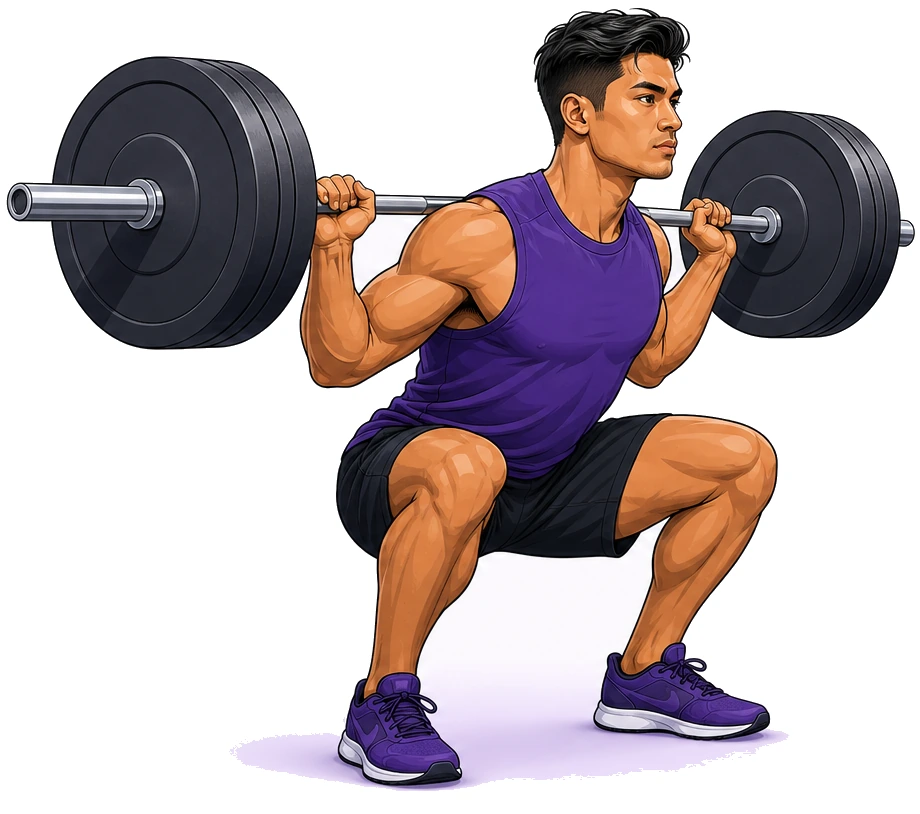
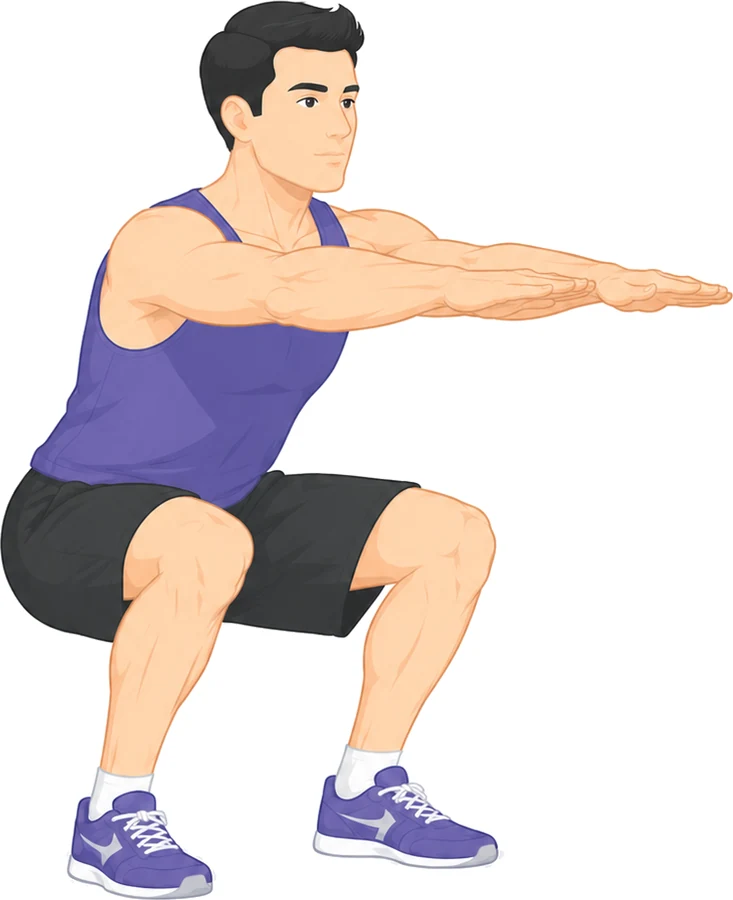
feat(login): the library's own squat figure, on a page that fits a laptop
Two things, and the first forces the second.

The brand stage now shows the bodyweight squat from the movement library, so
the athlete a visitor meets on the way in is the one they meet again on the
/movements card. Not by pointing `src` at movements/squat.png: that file is a
1254x1254 opaque square, ~35% padding (the feet would float off the floor
rings), on a (252,251,251) plate that `mix-blend-multiply` renders as a faint
rectangle, at 1.2 MB. scripts/prep_login_hero.py trims it to the figure, floods
the plate to pure white and writes 733x900 WebP -- 31 kB, smaller than the
barbell hero it replaces. The recipe is committed because the binary is.

The new art is portrait where the old one was landscape, so the art box goes
height-constrained and its four offsets are re-derived.

The page itself was ~880px tall against a 716px FIXED stage floor, so every
laptop had to scroll to reach the sign-in button. The stage floor drops to
520px and its callouts move to percentages (at 716px they land exactly where
the design study measured them); the panel's rhythm tightens; and a
short-viewport tier in index.css takes out ~95px more below 780px of viewport.
Verified with the footer fully visible -- the last element, so no scroll -- at
1366x640, 1536x730, 1920x950 and 1152x700, in both locales. Floor is ~640px of
viewport; 1280x610 still overflows, as does the transient error banner at the
low end.

The stage now starts at `xl`, not `lg`. Its cards are a fixed 214px wide and
[…]

diff --git a/frontend/src/pages/Login.tsx b/frontend/src/pages/Login.tsx
@@ -71,6 +71,12 @@ function StageCard({
 // holding an illustrated brand stage on the left and the form on the right. The stage is desktop
 // only — its callouts are absolutely positioned in the stage's own coordinate space, which has no
 // sensible phone equivalent, and the LIFF path lands here on small screens.
+//
+// "Desktop" here means `xl` (1280px), not `lg`. The callout cards are a fixed 214px wide at a fixed
+// type size, and the split gives the form column a 430px floor: below 1280 the stage is squeezed
+// under ~600px and the cards start sitting on the hero copy and on the athlete's head. The form on
+// its own is the better answer at those widths, and it is the same breakpoint at which the shell
+// becomes the inset rounded card — one boundary, not two.
 export default function Login() {
   const { t } = useI18n();
   const navigate = useNavigate();
@@ -159,34 +165,47 @@ export default function Login() {
     }
   }
 
+  // Control heights are sized so the whole page clears a laptop viewport (see the shell comment
+  // below); 48px is still comfortably above the 44px touch-target floor.
   const fieldWrap =
-    "flex h-[52px] items-center rounded-[14px] border border-border bg-white/70 transition-colors focus-within:border-primary focus-within:ring-[3px] focus-within:ring-primary/10";
+    "lgn-field flex h-12 items-center rounded-[14px] border border-border bg-white/70 transition-colors focus-within:border-primary focus-within:ring-[3px] focus-within:ring-primary/10";
   const fieldInput =
     "h-full w-full min-w-0 bg-transparent px-3.5 text-[15px] text-content outline-none placeholder:text-faint";
   const socialButton =
-    "flex h-[52px] w-full items-center justify-center gap-3 rounded-[13px] border border-border bg-white text-[15px] font-semibold text-content shadow-[0_5px_11px_rgba(35,46,97,0.035)] transition-colors hover:border-primary/40 hover:bg-primary/[0.03] active:scale-[0.995] disabled:opacity-60";
+    "lgn-social flex h-12 w-full items-center justify-center gap-3 rounded-[13px] border border-border bg-white text-[15px] font-semibold text-content shadow-[0_5px_11px_rgba(35,46,97,0.035)] transition-colors hover:border-primary/40 hover:bg-primary/[0.03] active:scale-[0.995] disabled:opacity-60";
 
   return (
-    <div className="min-h-[100dvh] bg-background xl:p-4">
-      {/* Below `lg` the brand stage is gone, so the shell keeps the lavender canvas and the form
-          reads as a card on it; from `lg` up the shell itself is the white surface the stage
-          paints on. */}
-      <div className="relative grid min-h-[100dvh] grid-rows-[1fr_auto] overflow-hidden bg-background lg:bg-white xl:min-h-[calc(100dvh-2rem)] xl:rounded-[2rem] xl:border xl:border-white xl:shadow-card">
+    <div className="min-h-[100dvh] bg-background xl:p-3">
+      {/* Below `xl` the brand stage is gone, so the shell keeps the lavender canvas and the form
+          reads as a card on it; from `xl` up the shell itself is the white surface the stage
+          paints on.
+
+          Everything from here down is sized to fit a LAPTOP viewport without scrolling — a sign-in
+          button below the fold is a broken sign-in page. The budget that has to hold is
+          `pt` + max(stage, form panel) + footer; the form panel is the taller of the two columns,
+          so its rhythm (and not the stage) is what the trims below are protecting. */}
+      <div className="relative grid min-h-[100dvh] grid-rows-[1fr_auto] overflow-hidden bg-background xl:bg-white xl:min-h-[calc(100dvh-1.5rem)] xl:rounded-[2rem] xl:border xl:border-white xl:shadow-card">
         <Link
           to="/"
           aria-label={t("auth.brandHome")}
-          className="absolute left-6 top-6 z-20 inline-flex items-center gap-3.5 lg:left-11 lg:top-9"
+          className="absolute left-6 top-5 z-20 inline-flex items-center gap-3 xl:left-10 xl:top-6"
         >
-          <img src="/icon.svg" alt="" width={52} height={52} className="h-[52px] w-[52px] rounded-[12px] shadow-accent" />
-          <span className="font-display text-2xl font-extrabold tracking-tight text-content">X-Coach</span>
+          <img src="/icon.svg" alt="" width={44} height={44} className="h-11 w-11 rounded-[11px] shadow-accent" />
+          <span className="font-display text-[22px] font-extrabold tracking-tight text-content">X-Coach</span>
         </Link>
 
-        {/* 61/39 split, matching the design study the percentage offsets below were measured in. */}
-        <div className="grid pt-28 lg:grid-cols-[minmax(0,1.564fr)_minmax(430px,1fr)] lg:pt-[4.8rem]">
+        {/* 61/39 split, matching the design study the percentage offsets below were measured in.
+            The top padding only has to clear the brand link (top-6 + 44px logo); the form panel
+            centres in whatever height is left. */}
+        <div className="lgn-top grid pt-24 xl:grid-cols-[minmax(0,1.564fr)_minmax(430px,1fr)] xl:pt-[3.75rem]">
           {/* ── Brand stage ─────────────────────────────────────────────── */}
+          {/* The floor was a fixed 716px in the design study, which forced the page past the fold on
+              every laptop. Everything inside it is positioned in %, so the composition scales with
+              the row instead — the floor below is only the point where the fixed-width, fixed-font
+              callout cards start to crowd each other. */}
           <section
             aria-labelledby="lgn-hero-title"
-            className="lgn-stage relative isolate hidden min-h-[716px] overflow-hidden lg:block"
+            className="lgn-stage relative isolate hidden min-h-[520px] overflow-hidden xl:block"
           >
             {/* -z-[1], not lower: the stage's floor gradient sits at -3/-4, and the mock shows the
                 dot fields ON the violet corner rather than buried under it. */}
@@ -195,13 +214,13 @@ export default function Login() {
             <span className="lgn-orb absolute right-[19%] top-[48%] h-2 w-2 rounded-full border-2 border-[#ad92ff] opacity-70" aria-hidden="true" />
             <span className="lgn-orb lgn-orb-b absolute right-[4.5%] top-[56%] h-[9px] w-[9px] rounded-full border-2 border-[#ad92ff] opacity-70" aria-hidden="true" />
 
-            <div className="lgn-copy absolute left-[13%] top-[72px] z-[6]">
+            <div className="lgn-copy absolute left-[13%] top-[7%] z-[6]">
               {/* h2, not h1: the stage is desktop-only, so making it the document's h1 would leave
                   phones with no h1 at all. The page's subject is the form, and its title keeps the
                   h1 it has always had. */}
               <h2
                 id="lgn-hero-title"
-                className="font-display text-[clamp(38px,3vw,49px)] font-extrabold leading-[1.13] tracking-[-0.03em] text-content"
+                className="font-display text-[clamp(34px,2.7vw,45px)] font-extrabold leading-[1.13] tracking-[-0.03em] text-content"
               >
                 {t("auth.heroLine1")}
                 <br />
@@ -214,12 +233,20 @@ export default function Login() {
               </p>
             </div>
 
+            {/* The movement library's own squat figure, so the athlete a visitor meets on the way in
+                is the one they meet again on the /movements card. Derived from
+                `public/movements/squat.png` by `scripts/prep_login_hero.py`: trimmed to the figure
+                and flood-filled to a PURE white plate, which is what lets `mix-blend-multiply` drop
+                it onto the floor gradient with no cut-out halo and no visible plate rectangle.
+                Portrait (0.81), unlike the landscape barbell art this replaced — the box below is
+                height-constrained, so `h-` sets the figure's size and `w-` only has to be wide
+                enough not to clip the outstretched arms. */}
             <img
               src="/assets/squat-hero.webp"
-              width={920}
-              height={814}
+              width={733}
+              height={900}
               alt=""
-              className="lgn-art absolute bottom-[2.7%] left-[29.5%] z-[2] h-[61%] w-[56%] object-contain mix-blend-multiply"
+              className="lgn-art absolute bottom-[6%] left-[30%] z-[2] h-[58%] w-[42%] object-contain mix-blend-multiply"
             />
             <div
               aria-hidden="true"
@@ -230,8 +257,11 @@ export default function Login() {
               <i />
             </div>
 
+            {/* Card offsets are percentages of the stage, not the study's pixels, for the same
+                reason the floor is: at 716px tall they land exactly where they were measured, and
+                below that the four of them close in evenly instead of colliding. */}
             <StageCard
-              className="left-[10%] top-[287px]"
+              className="lgn-card-a left-[10%] top-[34%]"
               Glyph={Sparkle}
               title={t("auth.card1Title")}
               body={t("auth.card1Body")}
@@ -245,7 +275,7 @@ export default function Login() {
             />
 
             {/* Form score — the one card that shows a verdict rather than a capability. */}
-            <div className="lgn-card lgn-card-b absolute right-[7%] top-[190px] z-[7] w-[184px] rounded-2xl border border-white/95 bg-white/[0.88] p-4 shadow-card backdrop-blur-[10px]">
+            <div className="lgn-card lgn-card-b absolute right-[7%] top-[24%] z-[7] w-[184px] rounded-2xl border border-white/95 bg-white/[0.88] p-4 shadow-card backdrop-blur-[10px]">
               <strong className="block text-xs font-bold leading-snug text-content">{t("auth.scoreTitle")}</strong>
               <div className="mt-3 flex items-center gap-3.5">
                 <div className="lgn-ring relative grid h-[64px] w-[64px] shrink-0 place-items-center rounded-full">
@@ -259,7 +289,7 @@ export default function Login() {
             </div>
 
             <StageCard
-              className="lgn-card-c bottom-[148px] left-[14%]"
+              className="lgn-card-c bottom-[18%] left-[14%]"
               Glyph={Barbell}
               title={t("auth.card2Title")}
               body={t("auth.card2Body")}
@@ -271,7 +301,7 @@ export default function Login() {
             />
 
             <StageCard
-              className="lgn-card-d bottom-[150px] right-[6%]"
+              className="lgn-card-d bottom-[18.5%] right-[6%]"
               Glyph={TrendUp}
               title={t("auth.card3Title")}
               body={t("auth.card3Body")}
@@ -288,23 +318,23 @@ export default function Login() {
           </section>
 
           {/* ── Form panel ──────────────────────────────────────────────── */}
-          <section className="flex items-center justify-center px-5 pb-10 sm:px-8 lg:px-6">
-            <div className="lgn-panel w-full max-w-[554px] rounded-[28px] border border-border bg-white px-6 py-9 shadow-card sm:px-10">
-              <h1 className="font-display text-[30px] font-extrabold tracking-[-0.03em] text-content">
+          <section className="lgn-formcol flex items-center justify-center px-5 pb-5 sm:px-8 xl:px-6">
+            <div className="lgn-panel w-full max-w-[554px] rounded-[28px] border border-border bg-white px-6 py-5 shadow-card sm:px-9">
+              <h1 className="lgn-title font-display text-[27px] font-extrabold tracking-[-0.03em] text-content">
                 {t(isSignup ? "auth.signUpTitle" : "auth.signInTitle")}
               </h1>
-              <p className="mt-2 text-base text-muted">
+              <p className="mt-1.5 text-[15px] text-muted">
                 {t(isSignup ? "auth.signUpSub" : "auth.signInSub")}
               </p>
 
               {!configured && (
-                <div className="mt-6 flex items-start gap-2.5 rounded-xl border border-border bg-background p-3.5 text-sm text-muted">
+                <div className="mt-5 flex items-start gap-2.5 rounded-xl border border-border bg-background p-3.5 text-sm text-muted">
                   <Info size={18} className="shrink-0 text-faint" />
                   <span>{t("auth.notConfigured")}</span>
                 </div>
               )}
 
-              <form onSubmit={submit} className="mt-7">
+              <form onSubmit={submit} className="lgn-form mt-5">
                 <label htmlFor="email" className="mb-2 block text-sm font-bold text-content">
                   {t("auth.email")}
                 </label>
@@ -322,7 +352,7 @@ export default function Login() {
                   />
                 </div>
 
-                <label htmlFor="password" className="mb-2 mt-5 block text-sm font-bold text-content">
+                <label htmlFor="password" className="mb-2 mt-4 block text-sm font-bold text-content">
                   {t("auth.password")}
                 </label>
                 <div className={fieldWrap}>
@@ -341,7 +371,7 @@ export default function Login() {
                     type="button"
                     onClick={() => setShowPassword((v) => !v)}
                     aria-label={t(showPassword ? "auth.hidePassword" : "auth.showPassword")}
-                    className="grid h-full w-12 shrink-0 place-items-center rounded-r-[14px] text-faint transition-colors hover:text-muted"
+                    className="grid h-full w-11 shrink-0 place-items-center rounded-r-[14px] text-faint transition-colors hover:text-muted"
                   >
                     {showPassword ? <EyeSlash size={21} /> : <Eye size={21} />}
                   </button>
@@ -367,14 +397,14 @@ export default function Login() {
                 <button
                   type="submit"
                   disabled={busy || !configured}
-                  className="mt-7 flex h-[54px] w-full items-center justify-center gap-3 rounded-[13px] bg-gradient-to-r from-[#7447ff] to-[#6d3cf5] text-base font-bold text-primary-content shadow-accent transition-transform hover:-translate-y-0.5 active:translate-y-0 disabled:translate-y-0 disabled:opacity-60"
+                  className="lgn-submit mt-6 flex h-[52px] w-full items-center justify-center gap-3 rounded-[13px] bg-gradient-to-r from-[#7447ff] to-[#6d3cf5] text-base font-bold text-primary-content shadow-accent transition-transform hover:-translate-y-0.5 active:translate-y-0 disabled:translate-y-0 disabled:opacity-60"
                 >
                   {busy ? <CircleNotch size={20} className="animate-spin" /> : <SignIn size={20} />}
                   {t(isSignup ? "auth.signUpBtn" : "auth.signInBtn")}
                 </button>
               </form>
 
-              <div className="my-6 flex items-center gap-4 text-[13px] text-muted">
+              <div className="lgn-divider my-4 flex items-center gap-4 text-[13px] text-muted">
                 <span className="h-px flex-1 bg-border" />
                 {t("auth.orContinue")}
                 <span className="h-px flex-1 bg-border" />
@@ -385,12 +415,12 @@ export default function Login() {
                 {t("auth.google")}
               </button>
 
-              <button type="button" onClick={line} disabled={busy || !configured} className={`mt-3 ${socialButton}`}>
+              <button type="button" onClick={line} disabled={busy || !configured} className={`mt-2.5 ${socialButton}`}>
                 <LineLogo />
                 {t("auth.lineBtn")}
               </button>
 
-              <p className="mt-7 text-center text-[15px] text-muted">
+              <p className="lgn-alt mt-5 text-center text-[15px] text-muted">
                 {t(isSignup ? "auth.haveAccount" : "auth.noAccount")}{" "}
                 <button
                   type="button"
@@ -405,7 +435,7 @@ export default function Login() {
                 </button>
               </p>
 
-              <p className="mt-3 text-center">
+              <p className="mt-2 text-center">
                 <Link to="/app" className="text-sm text-faint transition-colors hover:text-muted">
                   {t("auth.demoLink")}
                 </Link>
@@ -414,7 +444,7 @@ export default function Login() {
           </section>
         </div>
 
-        <footer className="z-[15] flex items-center justify-center px-6 py-5 text-xs text-muted">
+        <footer className="lgn-foot z-[15] flex items-center justify-center px-6 py-2.5 text-xs text-muted">
           {t("auth.footer", { year: String(new Date().getFullYear()) })}
         </footer>
       </div>

diff --git a/frontend/src/index.css b/frontend/src/index.css
@@ -459,3 +459,42 @@ body {
 @media (prefers-reduced-motion: reduce) {
   .lgn-copy, .lgn-art, .lgn-panel, .lgn-card, .lgn-orb { animation: none !important; }
 }
+
+/* SHORT-VIEWPORT TIER. A login page that has to be scrolled to reach its own submit button is
+   broken, and the page has to clear a LAPTOP viewport, not a laptop SCREEN: browser chrome takes
+   100–130px, so a 768px-tall display leaves roughly 640px of page and a 864px one roughly 730px.
+   The markup's own rhythm fits a desktop monitor; this block takes ~95px out of it for both of the
+   laptops above, rather than compressing every screen down to the smallest one. The 780px cut-off
+   is deliberately well clear of the 730px case it has to serve — a page that only fits when the
+   arithmetic is exact stops fitting the moment a font falls back or the reader zooms.
+
+   Only spacing and one type size move — every control stays at or above the 44px touch target.
+   These are plain selectors emitted after `@tailwind utilities`, so they beat the `py-*`/`h-*`
+   utilities they override on equal specificity by source order (same mechanism the RADIUS note
+   at the top of this file warns about, used deliberately here). */
+@media (max-height: 780px) {
+  .lgn-formcol { padding-bottom: 0.5rem; }
+  .lgn-panel { padding-top: 0.75rem; padding-bottom: 0.75rem; }
+  .lgn-title { font-size: 24px; }
+  .lgn-form { margin-top: 1rem; }
+  .lgn-field, .lgn-social, .lgn-submit { height: 2.75rem; }
+  .lgn-submit { margin-top: 1.15rem; }
+  .lgn-divider { margin-top: 0.5rem; margin-bottom: 0.5rem; }
+  .lgn-alt { margin-top: 0.7rem; }
+  .lgn-foot { padding-top: 0.4rem; padding-bottom: 0.4rem; }
+}
+
+/* The two rules above that are NOT safe at every width, so they get the stage's own breakpoint.
+   Below `xl` the brand stage is gone and the brand link sits ABOVE the panel rather than beside it,
+   where a shortened top padding would run the panel under the logo. And `.lgn-card-a` is the one
+   piece of the stage that cannot ride the percentages down: the hero copy above it is text — three
+   lines in English where Chinese takes two — and its height does not shrink with the stage, so on a
+   short stage the card's 34% lands it on that third line. */
+@media (min-width: 1280px) and (max-height: 780px) {
+  .lgn-top { padding-top: 2.25rem; }
+  .lgn-card-a { top: 41%; }
+  /* And the card below it drops the same distance, to keep the pair apart. The clearance has to
+     survive `lgn-float`: the two cards drift ±5px on delays 0.7s apart, so a gap that merely looks
+     safe in a still frame closes while the page idles. */
+  .lgn-card-c { bottom: 15%; }
+}

diff --git a/scripts/prep_login_hero.py b/scripts/prep_login_hero.py
@@ -1,0 +1,71 @@
+"""Derive the login page's brand-stage hero from the movement-library squat illustration.
+
+Same kind of asset pipeline as `prep_movement_art.py`, and here for the same reason: the binary it
+writes is committed, so the recipe that produced it has to be too.
+
+Source: `frontend/public/movements/squat.png` -- the bodyweight-squat card art, an opaque 1254x1254
+pre-matted square. The login stage needs three things the card does not:
+
+  * a PURE white plate. The card's is (252,251,251), and the stage composites the hero with
+    `mix-blend-multiply` so it sits on the violet floor gradient without an alpha halo; anything
+    below 255 multiplies the gradient a shade darker and the plate shows as a faint rectangle.
+  * a trim to the figure. The card square is ~35% padding, and the stage positions the art by
+    percentage against the floor rings -- padding baked into the image floats the feet off them.
+  * a much smaller file. 1.2 MB of PNG is not what an unauthenticated page should be spending.
+
+Usage (from the repo root):
+    .venv\\Scripts\\python.exe scripts/prep_login_hero.py
+"""
+
+import argparse
+import os
+
+import cv2
+import numpy as np
+from PIL import Image
+
+# Colour distance from the SEED that still counts as plate. The background is a noisy near-white
+# (250-253); 12 covers the noise and stops well short of the figure, whose lightest real pixels are
+# the shoe highlights -- and those are interior, unreachable from the border seeds anyway.
+TOL = 12
+# Kept deliberately loose so the soft contact shadow under the feet survives the trim: it is what
+# seats the figure on the stage's floor rings.
+TRIM_THRESHOLD = 245
+LONG_EDGE = 900
+
+
+def main() -> None:
+    root = os.path.dirname(os.path.dirname(os.path.abspath(__file__)))
+    ap = argparse.ArgumentParser(description=__doc__)
+    ap.add_argument("--src", default=os.path.join(root, "frontend", "public", "movements", "squat.png"))
+    ap.add_argument("--dst", default=os.path.join(root, "frontend", "public", "assets", "squat-hero.webp"))
+    args = ap.parse_args()
+
+    rgb = np.asarray(Image.open(args.src).convert("RGB")).copy()
+    h, w, _ = rgb.shape
+
+    # Flood the plate to pure white, inwards from every border seed.
+    mask = np.zeros((h + 2, w + 2), np.uint8)
+    flags = 4 | (255 << 8) | cv2.FLOODFILL_FIXED_RANGE
+    for sx, sy in (
+        [(x, 0) for x in range(0, w, 4)]
+        + [(x, h - 1) for x in range(0, w, 4)]
+        + [(0, y) for y in range(0, h, 4)]
+        + [(w - 1, y) for y in range(0, h, 4)]
+    ):
+        if mask[sy + 1, sx + 1] == 0:
+            cv2.floodFill(rgb, mask, (sx, sy), (255, 255, 255), (TOL,) * 3, (TOL,) * 3, flags)
+
+    ys, xs = np.where(rgb.min(axis=2) < TRIM_THRESHOLD)
+    img = Image.fromarray(rgb[ys.min() : ys.max() + 1, xs.min() : xs.max() + 1])
+
+    scale = LONG_EDGE / max(img.size)
+    if scale < 1:
+        img = img.resize((round(img.width * scale), round(img.height * scale)), Image.LANCZOS)
+
+    img.save(args.dst, quality=88, method=6)
+    print(f"{os.path.basename(args.dst)}  {img.size[0]}x{img.size[1]}  {os.path.getsize(args.dst) // 1024} kB")
+
+
+if __name__ == "__main__":
+    main()
